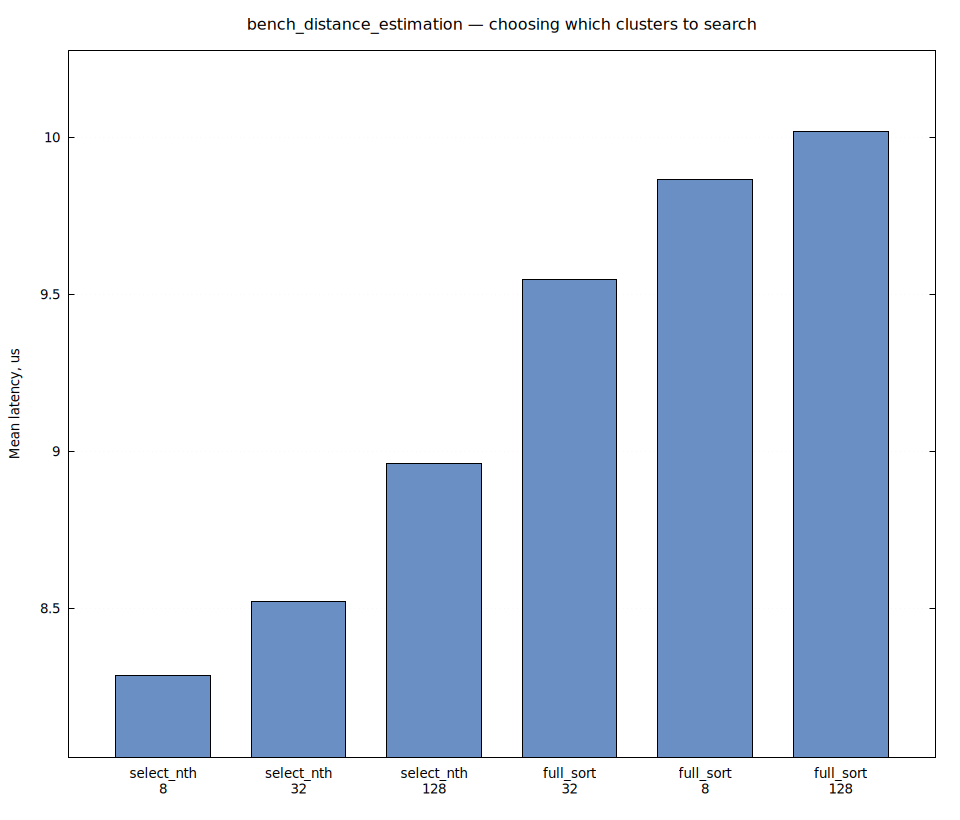
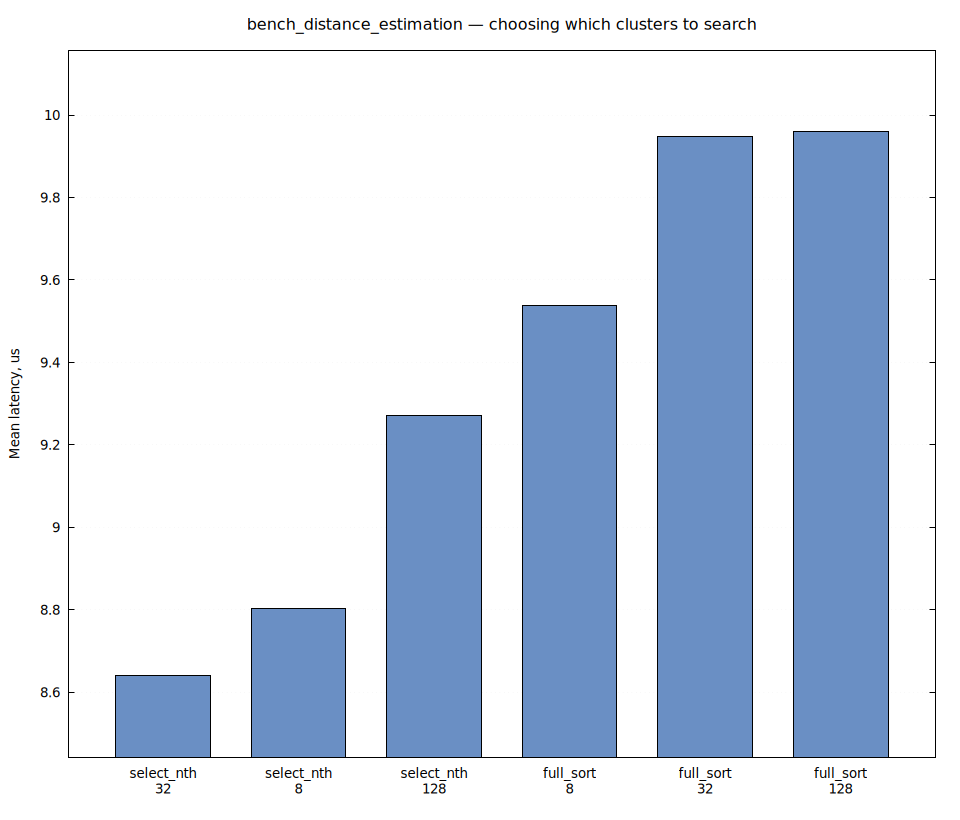
Update the benchmark report for the Pass-1 estimator fix
Re-ran bench_distance_estimation at 2559786 and re-rendered its charts (the
other suites are unchanged from the e5d15c9 run). end_to_end_search/40 is now
3.21 ms (4.92 ms in August, 6.06 ms before the fix), so every end-to-end case
is 29-44% faster than the previous report. The semantic section explains the
intermediate regression and its cause.

Two corrections to what the earlier refresh claimed:
- The "grouping costs more than the hash map at 40 vectors" reading was
  noise: in this run grouping is cheaper at both sizes, and all 40-vector
  layers sit within 2%, so the caption now says to read that chart for
  ordering only.
- second_pass_multi_bit went -20% vs August in the full run and back +30%
  on this re-run, identical code, same kernel, same day. The variance note
  no longer blames the kernel update: some CPU-bound microbenchmarks move
  20-30% run to run.

semantic_search/CLAUDE.md notes why the query sum is computed once.

diff --git a/minnal_db/benchmark.md b/minnal_db/benchmark.md
@@ -25,7 +25,7 @@ checked against; the final section here closes the loop on that comparison.
 | Disk | NVMe SSD (`nvme0n1`, non-rotational, 1.8 TB) — `target/` and all benchmark temp dirs live here |
 | rustc / cargo | 1.96.0 |
 | gnuplot | 6.0 patchlevel 2 (used to render the charts in this report) |
-| Repo | commit `e5d15c9` (branch `fix/search-concurrency`) |
+| Repo | commit `e5d15c9` (branch `fix/search-concurrency`); the semantic-search suite re-run at `2559786` |
 | Date | 2026-09-26 |
 
 ---
@@ -93,14 +93,17 @@ paging — holds to ±5%, and the sub-microsecond cases (memtable hits, miss pat
 swing 20-40% if the machine is doing anything else at the time. Read the small
 numbers as orders of magnitude unless the host is idle.
 
-Those bounds hold within one setup, not across a system update. Between the
-previous run (2026-08-22, kernel 7.0.0-30) and this one (kernel 7.0.0-34), the
-only engine changes were the semantic-search hot-path commits, which touched
-the L1 scan path and search itself. Yet some rows whose code did not change
-moved further than the bounds above: point reads 5-8% faster, predicate
-evaluation up to 7% faster, and the multi-bit second-pass estimator 20% faster.
-Treat a cross-run difference under ~10% as the environment unless the code
-changed, and compare runs from the same kernel and firmware where it matters.
+Those bounds are optimistic across runs. Between the previous run (2026-08-22,
+kernel 7.0.0-30) and this one (kernel 7.0.0-34), the only engine changes were
+the semantic-search hot-path commits, which touched the L1 scan path and search
+itself. Yet rows whose code did not change moved further than the bounds above:
+point reads 5-8% faster and predicate evaluation up to 7% faster. The clearest
+case is the multi-bit second-pass estimator, which measured 20% faster than
+August in the full run and then back at August's value (+30%) when its suite was
+re-run three hours later, with identical code on the same kernel. So it is not
+the kernel update; some CPU-bound microbenchmarks here simply move 20-30% from
+run to run. Treat a cross-run difference under ~10% as the environment unless
+the code changed, and confirm anything larger with an A/B on one boot.
 
 ### A word on memory versus disk
 
@@ -555,39 +558,36 @@ run against the real cluster centroids bundled with the project (256 clusters)
 and synthetic 768-dimension embeddings, so no external embedding service needs
 to be running.
 
-Scoring a batch of candidate documents against a query is fast and cheap:
-1.6 µs for a hundred candidates up to 15.9 µs for a thousand for the coarse
-first pass, scaling linearly, and 1.2 µs to 12.2 µs for the more precise second
-pass. The extra precision of the second pass costs nothing extra at this scale;
-it measures 20% *cheaper* here with no code change since the previous run (see
-*How much a repeat run moves*). Picking out which few clusters are worth
+Scoring a batch of candidate documents against a query is fast and cheap —
+1.7 µs for a hundred candidates up to 17.0 µs for a thousand, scaling linearly,
+and roughly the same whether it's the coarse first pass (17.0 µs) or the more
+precise second pass (15.7 µs). The extra precision of the second pass
+costs nothing extra at this scale. Picking out which few clusters are worth
 searching, the equivalent of choosing the right shelf before scanning it, takes
-under 10 µs and barely changes whether 8 clusters are requested (8.3 µs) or 128
-(9.0 µs).
+under 10 µs and barely changes whether 8 clusters are requested (8.8 µs) or 128
+(9.3 µs).
 
-A full end-to-end search got **28–44% faster** since the previous run, from the
-semantic-search hot-path work (`e414cdb`, `d14d73e`): scoring parallel over
-entries rather than clusters, per-document grouping by sort instead of a hash
-map, buffered on-disk range reads, and an O(n) first-pass cut. A 4-vector query
-over 5,000 documents went from 2.25 ms to 1.62 ms, and 8 chunks per document
-from 11.9 ms to 6.7 ms. Because the first pass scans every probed chunk, cost
-still grows with the chunks per document (eight times the chunks costs 4.18x as
-much), but less steeply than before (5.36x).
+A full end-to-end search got **29–44% faster** since the previous run, from the
+semantic-search hot-path work (`e414cdb`, `d14d73e`, `2559786`): scoring
+parallel over entries rather than clusters, per-document grouping by sort
+instead of a hash map, buffered on-disk range reads, an O(n) first-pass cut, and
+each query vector's sum computed once rather than once per probed cluster. A
+4-vector query over 5,000 documents went from 2.25 ms to 1.56 ms, a 40-vector
+one from 4.92 ms to 3.21 ms, and 8 chunks per document from 11.9 ms to 6.6 ms.
+Ten times the query now costs 2.07x as much (2.19x before), and because the
+first pass scans every probed chunk, eight times the chunks per document costs
+4.22x (5.36x before).
 
-**One case got slower: a 40-vector query, 4.92 ms → 6.06 ms (+23%).** An A/B
-across the three commits puts all of it in the hot-path work (4.85 ms before it,
-5.95 ms after it, 6.04 ms with the concurrency fix on top). The likely cause,
-not yet measured in isolation, is that the per-document fold after scoring now
-runs single-threaded, and at 40 vectors it takes a 40-wide max per entry. The
-old code did that fold inside its parallel per-cluster tasks. Production embeds
-the whole query once (one vector), so it does not pay this; the query-length
-sweep now measures a general-MaxSim path that production does not use. As a
-result, ten times the query now costs 3.75x as much, not 2.19x.
-
-The concurrency fix itself (`6d38cc1`) costs 2–5% on the 1-chunk and 4-vector
-cases of this single-threaded benchmark, the same single-client cost the
-concurrency report measured on real data.
-
+For one intermediate commit the 40-vector case was the exception. The hot-path
+rewrite moved Pass-1 estimator construction, one per probed cluster × query
+vector, out of the old parallel per-cluster fold into a single-threaded
+pre-pass, and each construction recomputed the query's 768-element sum, which
+depends only on the query. At 40 vectors that was 2.9 ms of a 6.0 ms search
+(+23% against the previous run). Computing the sum once per query vector
+(`2559786`) cut the stage to 0.3 ms with bit-identical scores. Production embeds
+one query vector, so it was never exposed; the concurrency fix (`6d38cc1`)
+costs 2–5% on the single-threaded 1-chunk and 4-vector cases, which that change
+recovered.
 ![Candidate scoring, first pass against second](docs/benchmarks/semantic_scoring.png)
 
 *`first_pass` is the coarse pass and `second_pass` the more precise one. Sorted
@@ -618,23 +618,25 @@ and the chart shows it as the gap within each adjacent pair.*
 
 *One chart per query size, each on a linear axis from zero, because on the
 single log axis the previous run used the layer steps were invisible. The first
-pass in cumulative layers, single-threaded, starting from the bare
-distance math (`dot_arithmetic`), then adding the cost of reading the on-disk
-format (`plus_archived`), then production's per-document grouping
-(`plus_grouping`: one row per entry, sorted by document id and folded). The
-fourth bar, `plus_hashmap`, is the hash-map fold that grouping replaced, kept
-for comparison. At 4 query vectors grouping adds 9 µs over reading the archive
-where the map added 107 µs. At 40 it is the other way round, 165 µs against
-128 µs, which fits the 40-vector end-to-end regression above.*
+pass in cumulative layers, single-threaded, starting from the bare distance math
+(`dot_arithmetic`), then adding the cost of reading the on-disk format
+(`plus_archived`), then production's per-document grouping (`plus_grouping`: one
+row per entry, sorted by document id and folded). The fourth bar,
+`plus_hashmap`, is the hash-map fold that grouping replaced, kept for
+comparison. Grouping adds 22 µs over reading the archive at 4 query vectors and
+57 µs at 40, where the map added 109 µs and 172 µs. At 40 vectors every layer is
+within 2%, the size of run-to-run noise, so read that chart for the ordering
+only.*
 
 ![Complete search as the query grows](docs/benchmarks/semantic_query_length.png)
 
 ![Complete search as documents gain chunks](docs/benchmarks/semantic_chunks_per_doc.png)
 
 *The two end-to-end sweeps, on a shared millisecond axis so they can be read
-against each other: ten times the query costs 3.75x as much and eight times the
-chunks 4.18x. The query sweep was the sub-linear one in the previous run (2.19x);
-see the 40-vector regression above.*
+against each other: the query-length sweep is sub-linear (ten times the query
+for 2.07x the cost) while the chunk sweep is not (eight times the chunks for
+4.22x), because Pass 2 re-ranks a capped candidate set but Pass 1 scans every
+probed chunk.*
 
 ---
 

diff --git a/minnal_db/src/semantic_search/CLAUDE.md b/minnal_db/src/semantic_search/CLAUDE.md
@@ -48,6 +48,7 @@ The **query-embedding cache** (`system_qemb_cache`, below) follows the same spli
 2. Find its top-`n_probes` clusters by Euclidean distance (with several query vectors, the union across them). This is an **exact, exhaustive** scan — `ClusterIndex::find_top_n_cluster_ids_batch` computes the distance to *every* centroid (over a contiguous centroid matrix) and selects the `n_probes` nearest (`select_nth_unstable`, ~O(C)). There is **no neighbour graph / approximate traversal**: coarse-assignment cost is **T·C·D** (query vectors × centroids × dim), and production `T = 1`, so it is ~microseconds at C≈256. A graph is the wrong lever — approximate on the most recall-sensitive stage, marginal at a few hundred nodes. The contiguous-matrix scan was a measured ~12% win back when queries were chunked (T up to 100); **parallelising the per-vector scans was tried and reverted (~2.4× slower — the work is microseconds, so the thread pool costs more than it saves)**; a blocked GEMM is the only remaining lever and only pays at far larger C. See `Semantic-Search-Architecture.md`.
 3. `scan_sparse_clusters_batch(probe_clusters)` fetches every probed cluster in **one** call: `LSMTree::scan_prefixes` reads each LSM layer once for the whole prefix set (L1 seeks per prefix via the sparse index), then the value log resolves each pointer with its own `pread`. This scan is most of a warm query's cost and scales with the number of entries probed.
 4. Take a `SCORING_GATE` permit (see *Concurrency* below).
+   Then build one `SingleBitQuanDotProductEstimator` per (probed cluster, query vector). Each query vector's sum is computed **once** (`query_sum`) and passed to `with_query_sum`; recomputing it per cluster was 2.9 ms of a 6.0 ms search at 40 query vectors, because this pre-pass is single-threaded (it was not when estimators were built inside the old per-cluster fold).
 5. Flatten every probed entry into one list and score it **in parallel over entries, not clusters** (IVF clusters are skewed; one can hold a third of a corpus), each entry into its own row of a flat `n_query`-wide matrix. Entries are read zero-copy from their rkyv archive. The optional `doc_filter` (RoaringBitmap predicate) skips non-matching docs here, as do corrupt or wrong-style entries.
 6. Group per document with **ColBERT MaxSim**: sort the kept entry indices by `doc_id`, and fold each run of one document's entries (a document's chunks can sit in several probed clusters) with an element-wise max. `S(q, d) = Σ_i max_j ⟨q_i, d_j⟩`; with production's single whole-query vector this is `max_j ⟨q, d_j⟩`, the document's best-matching chunk. The sort replaced a per-document `HashMap` whose allocations and cross-thread merge were half of a FiQA query.
 7. Keep the top `first_pass_sparse_search_top_k` with `select_nth_unstable` — O(n), because Pass 2 re-ranks and does not care about their order.
